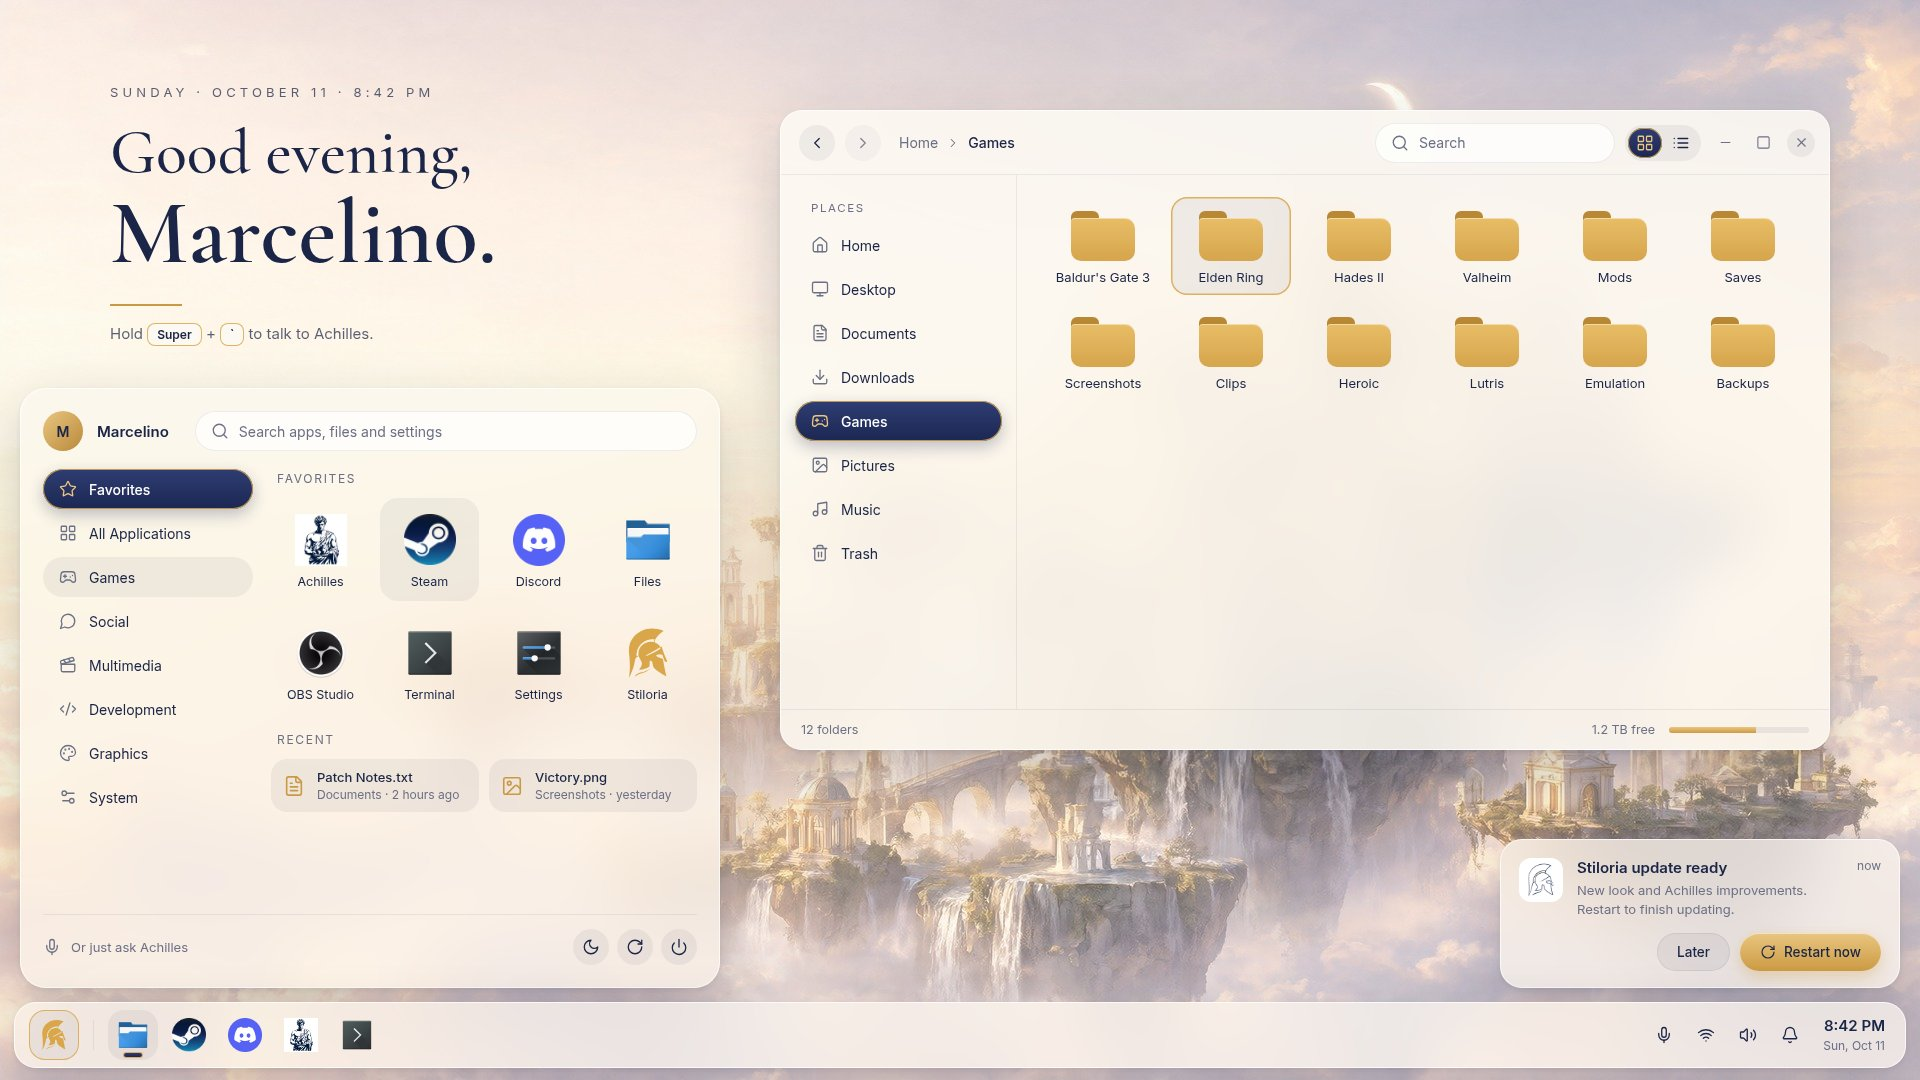
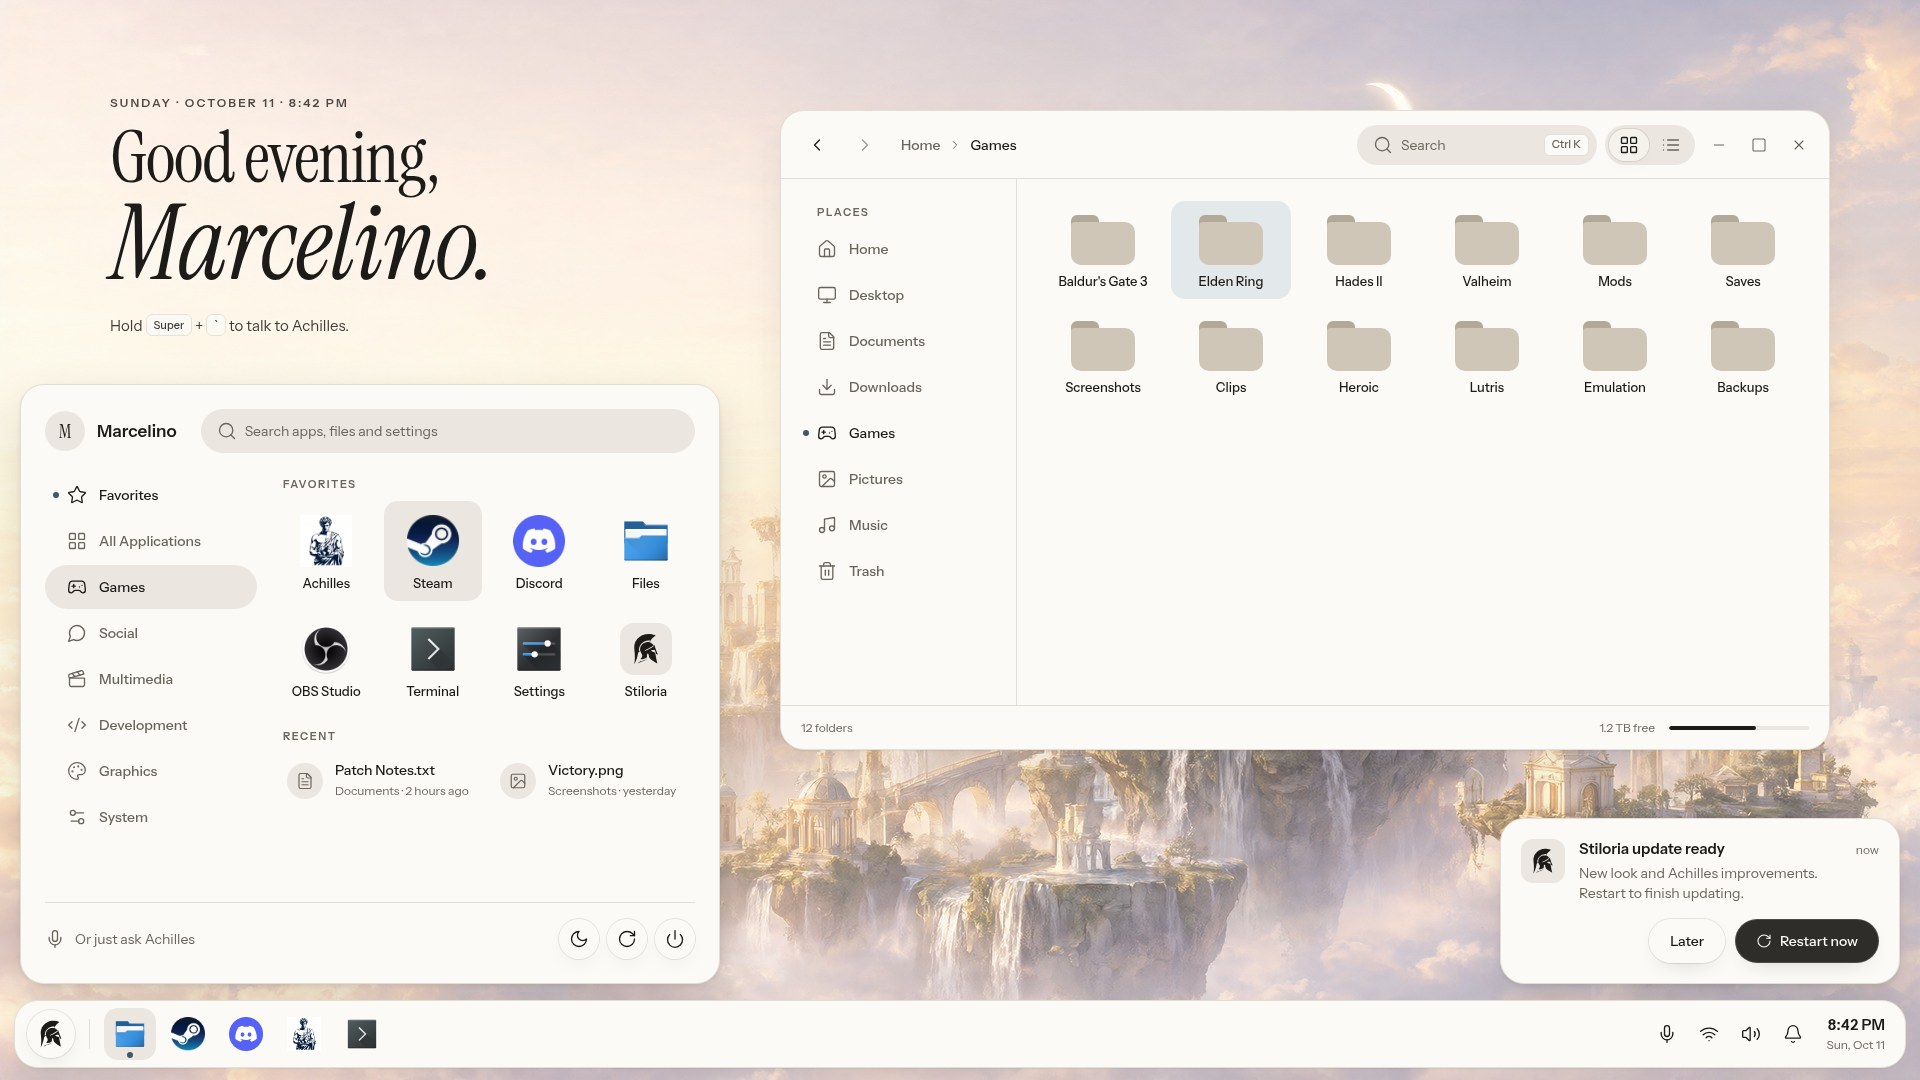
Shadows that follow the rounded corners, and Porcelain previews
KWin lays a shadow's tiles around the window and lets each reach under it
by its size less the margin hint. Ours reached 6px, less than the 7px
between a 24px curve and the window's square corner, so a pixel at each
corner had no shadow and showed as a light notch. Each tile now reaches
under the window by the corner radius, and the corners fade radially from
the arc's center, so the shadow hugs the curve. The window masks sit 2px
inside the edge, and the floating panel has one of its own.

The Day and Night previews in System Settings now show the Porcelain look.

diff --git a/tools/make_plasma_style.py b/tools/make_plasma_style.py
@@ -136,40 +136,47 @@ class Svg:
         print("wrote", path)
 
 
-def shadow(svg, S, R, strength):
-    """A soft shadow around a panel: radial at the corners, linear on the
-    sides. KWin draws it outside the window, so the inside is left empty."""
+def shadow(svg, M, R, strength):
+    """A soft shadow M px wide around a frame with corners of radius R, shaped
+    like the frame: KWin lays its tiles around the window and lets each
+    reach inside by its size less the margin hint, under the window. Each
+    reaches in by R, so a corner tile ends at its arc's center and a radial
+    fade from there follows the curve. With shorter tiles, the gap between
+    the curve and the window's square corner gets no shadow and shows as a
+    light notch."""
+    T = M + R  # tile depth: M outside the window, R under it
     ox, oy = 0, svg.y
     defs = []
-    for part, (px, py, cx, cy) in {"topleft": (0, 0, S, S), "topright": (S + E, 0, S + E, S),
-                                    "bottomleft": (0, S + E, S, S + E), "bottomright": (S + E, S + E, S + E, S + E)}.items():
+
+    def stops(scale=1.0):
+        # Full strength under the frame (the first R px), then a fade.
+        return (f'<stop offset="0" stop-color="#000" stop-opacity="{strength}"/>'
+                f'<stop offset="{fmt(R / T)}" stop-color="#000" stop-opacity="{strength}"/>'
+                f'<stop offset="{fmt((R + 0.45 * M) / T)}" stop-color="#000" stop-opacity="{strength * 0.45:.3f}"/>'
+                f'<stop offset="1" stop-color="#000" stop-opacity="0"/>')
+    for part, (px, py, cx, cy) in {"topleft": (0, 0, T, T), "topright": (T + E, 0, T + E, T),
+                                    "bottomleft": (0, T + E, T, T + E), "bottomright": (T + E, T + E, T + E, T + E)}.items():
         gid = f"sh-{part}-{oy}"
-        defs.append(f'<radialGradient id="{gid}" gradientUnits="userSpaceOnUse" cx="{ox + cx}" cy="{oy + cy}" r="{S}">'
-                    f'<stop offset="0" stop-color="#000" stop-opacity="{strength}"/>'
-                    f'<stop offset="0.45" stop-color="#000" stop-opacity="{strength * 0.45:.3f}"/>'
-                    f'<stop offset="1" stop-color="#000" stop-opacity="0"/></radialGradient>')
-        svg.element(f'<rect id="shadow-{part}" x="{ox + px}" y="{oy + py}" width="{S}" height="{S}" style="fill:url(#{gid})"/>')
+        defs.append(f'<radialGradient id="{gid}" gradientUnits="userSpaceOnUse" cx="{ox + cx}" cy="{oy + cy}" r="{T}">{stops()}</radialGradient>')
+        svg.element(f'<rect id="shadow-{part}" x="{ox + px}" y="{oy + py}" width="{T}" height="{T}" style="fill:url(#{gid})"/>')
     for part, (px, py, w, h, x1, y1, x2, y2) in {
-            "top": (S, 0, E, S, 0, S, 0, 0), "bottom": (S, S + E, E, S, 0, S + E, 0, 2 * S + E),
-            "left": (0, S, S, E, S, 0, 0, 0), "right": (S + E, S, S, E, S + E, 0, 2 * S + E, 0)}.items():
+            "top": (T, 0, E, T, 0, T, 0, 0), "bottom": (T, T + E, E, T, 0, T + E, 0, 2 * T + E),
+            "left": (0, T, T, E, T, 0, 0, 0), "right": (T + E, T, T, E, T + E, 0, 2 * T + E, 0)}.items():
         gid = f"sh-{part}-{oy}"
-        defs.append(f'<linearGradient id="{gid}" gradientUnits="userSpaceOnUse" x1="{ox + x1}" y1="{oy + y1}" x2="{ox + x2}" y2="{oy + y2}">'
-                    f'<stop offset="0" stop-color="#000" stop-opacity="{strength}"/>'
-                    f'<stop offset="0.45" stop-color="#000" stop-opacity="{strength * 0.45:.3f}"/>'
-                    f'<stop offset="1" stop-color="#000" stop-opacity="0"/></linearGradient>')
+        defs.append(f'<linearGradient id="{gid}" gradientUnits="userSpaceOnUse" x1="{ox + x1}" y1="{oy + y1}" x2="{ox + x2}" y2="{oy + y2}">{stops()}</linearGradient>')
         svg.element(f'<rect id="shadow-{part}" x="{ox + px}" y="{oy + py}" width="{w}" height="{h}" style="fill:url(#{gid})"/>')
-    svg.element(f'<rect id="shadow-center" x="{ox + S}" y="{oy + S}" width="{E}" height="{E}" style="fill:#000;fill-opacity:0"/>')
+    svg.element(f'<rect id="shadow-center" x="{ox + T}" y="{oy + T}" width="{E}" height="{E}" style="fill:#000;fill-opacity:0"/>')
     svg.element("<defs>" + "".join(defs) + "</defs>")
-    hx = ox + 2 * S + E + 8
+    hx = ox + 2 * T + E + 8
     for i, side in enumerate(("top", "bottom", "left", "right")):
         for j, kind in enumerate(("margin", "inset")):
-            # How far the shadow reaches past the frame, and how far it starts inside it.
-            value = {"margin": S - 6, "inset": R}[kind]
+            # How far the shadow reaches past the frame, and how far under it.
+            value = {"margin": M, "inset": R}[kind]
             horizontal = side in ("left", "right")
             w, h = (value, 2) if horizontal else (2, value)
             svg.element(f'<rect id="shadow-hint-{side}-{kind}" x="{hx + (i * 2 + j) * 24}" y="{oy}" width="{w}" height="{h}" style="fill:#000;fill-opacity:0"/>')
-    svg.width = max(svg.width, 2 * S + E + 8 + 8 * 24 + 40)
-    svg.y += 2 * S + E + 8
+    svg.width = max(svg.width, 2 * T + E + 8 + 8 * 24 + 40)
+    svg.y += 2 * T + E + 8
 
 
 def surface(rel, R, margin, shadow_size, shadow_strength, extra=None):
@@ -180,7 +187,11 @@ def surface(rel, R, margin, shadow_size, shadow_strength, extra=None):
     hints = {"top-margin": margin, "bottom-margin": margin, "left-margin": margin, "right-margin": margin,
              "top-inset": 4, "bottom-inset": 4, "left-inset": 4, "right-inset": 4}
     svg.frame("", S, R, layers, hints)
-    svg.frame("mask", S, R, [("ColorScheme-Background", 1, 0, None)])
+    # The mask is the region KWin treats as the window's own for effects such
+    # as blur. A pixel only partly covered at the curve counts as fully
+    # inside, so at full size it reaches past the rounded edge and shows a
+    # corner notch; 2px inside, it stays under the opaque fill.
+    svg.frame("mask", S, R, [("ColorScheme-Background", 1, 2, None)])
     if extra:
         extra(svg, S, R, layers)
     shadow(svg, shadow_size, R, shadow_strength)
@@ -190,6 +201,7 @@ def surface(rel, R, margin, shadow_size, shadow_strength, extra=None):
 
 def thick(svg, S, R, layers):
     svg.frame("thick", S, R, layers, {"top-margin": 8, "bottom-margin": 8, "left-margin": 8, "right-margin": 8})
+    svg.frame("mask-thick", S, R, [("ColorScheme-Background", 1, 2, None)])
 
 
 # Panels and menus are solid; Porcelain keeps frost for things you press.
@@ -197,10 +209,10 @@ def thick(svg, S, R, layers):
 # (depending on blur, compositing and the panel's opacity setting) and takes
 # Breeze's when a theme has none, so every variant gets the same solid surface.
 for variant in ("", "translucent/", "solid/", "opaque/"):
-    surface(f"{variant}dialogs/background.svgz", R=24, margin=12, shadow_size=30, shadow_strength=0.20)
-    surface(f"{variant}widgets/panel-background.svgz", R=24, margin=6, shadow_size=24, shadow_strength=0.14, extra=thick)
-    surface(f"{variant}widgets/tooltip.svgz", R=14, margin=8, shadow_size=18, shadow_strength=0.18)
-    surface(f"{variant}widgets/background.svgz", R=24, margin=12, shadow_size=24, shadow_strength=0.14)
+    surface(f"{variant}dialogs/background.svgz", R=24, margin=12, shadow_size=24, shadow_strength=0.20)
+    surface(f"{variant}widgets/panel-background.svgz", R=24, margin=6, shadow_size=18, shadow_strength=0.14, extra=thick)
+    surface(f"{variant}widgets/tooltip.svgz", R=14, margin=8, shadow_size=12, shadow_strength=0.18)
+    surface(f"{variant}widgets/background.svgz", R=24, margin=12, shadow_size=18, shadow_strength=0.14)
 
 # List items (start menu, system tray, notification history). Plasma marks the
 # current item with the "hover" frame and keeps the item's own text color, so
